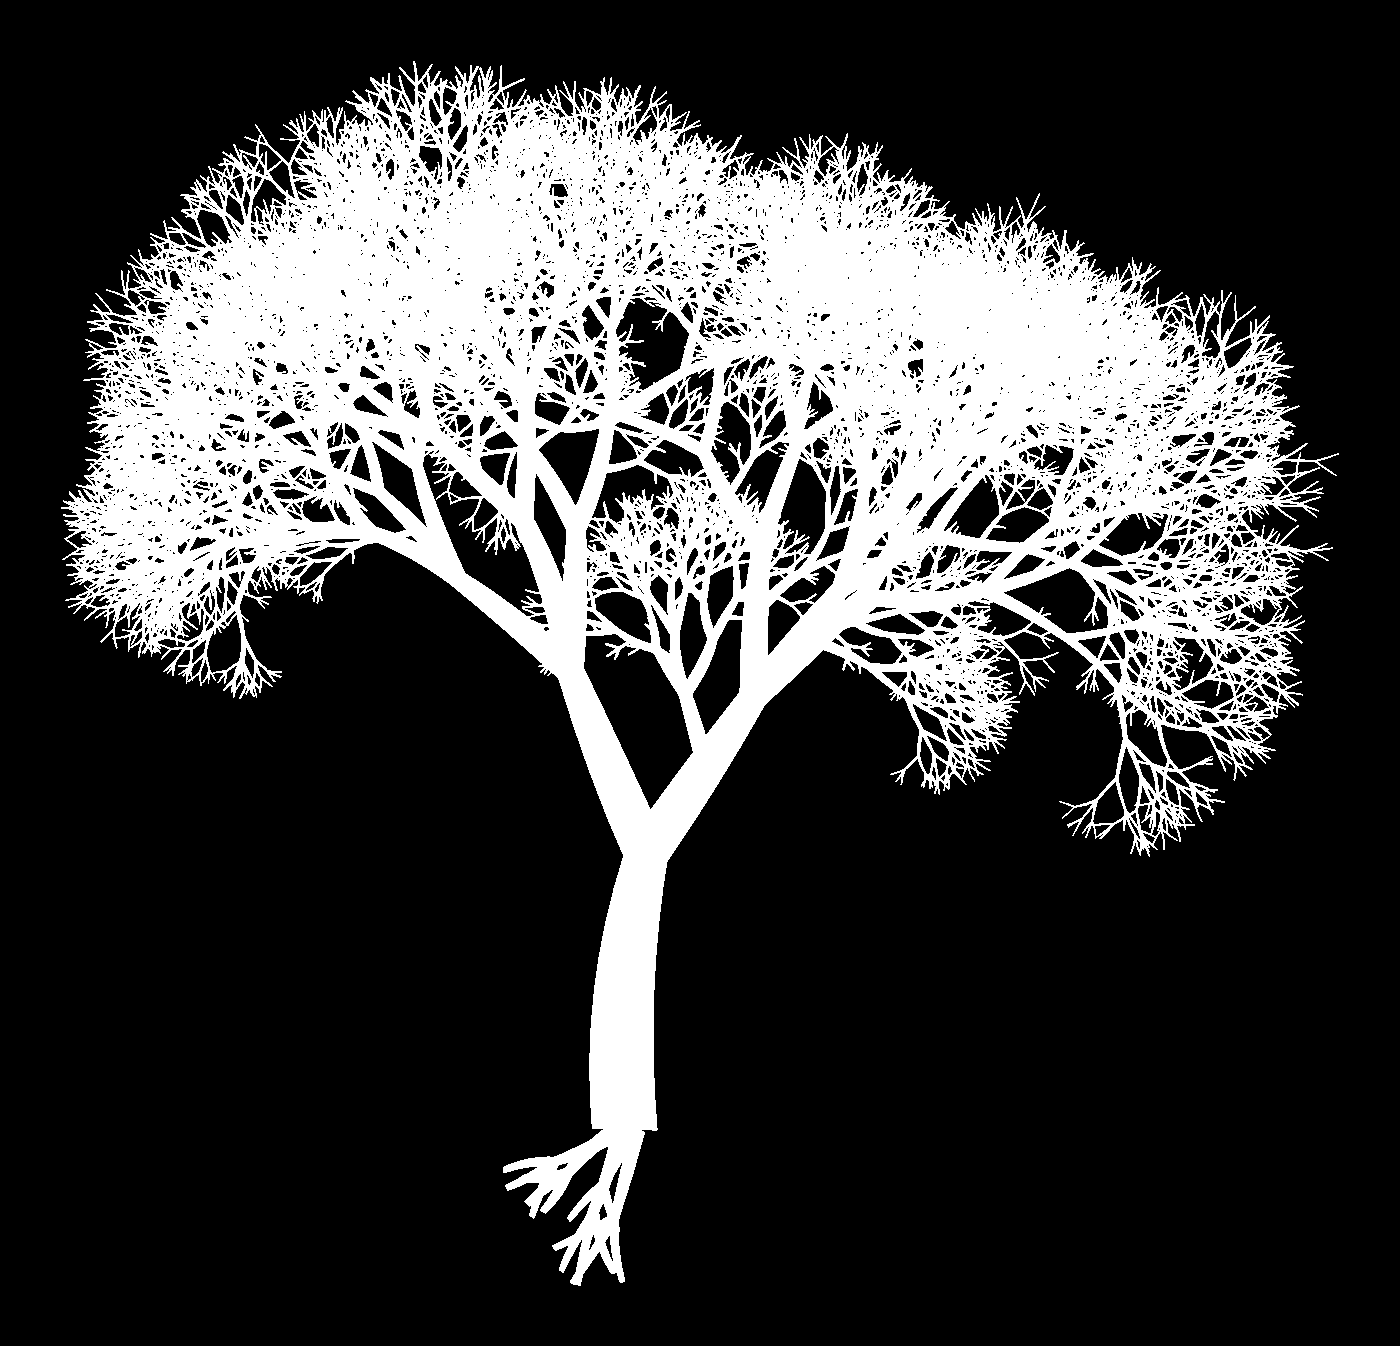
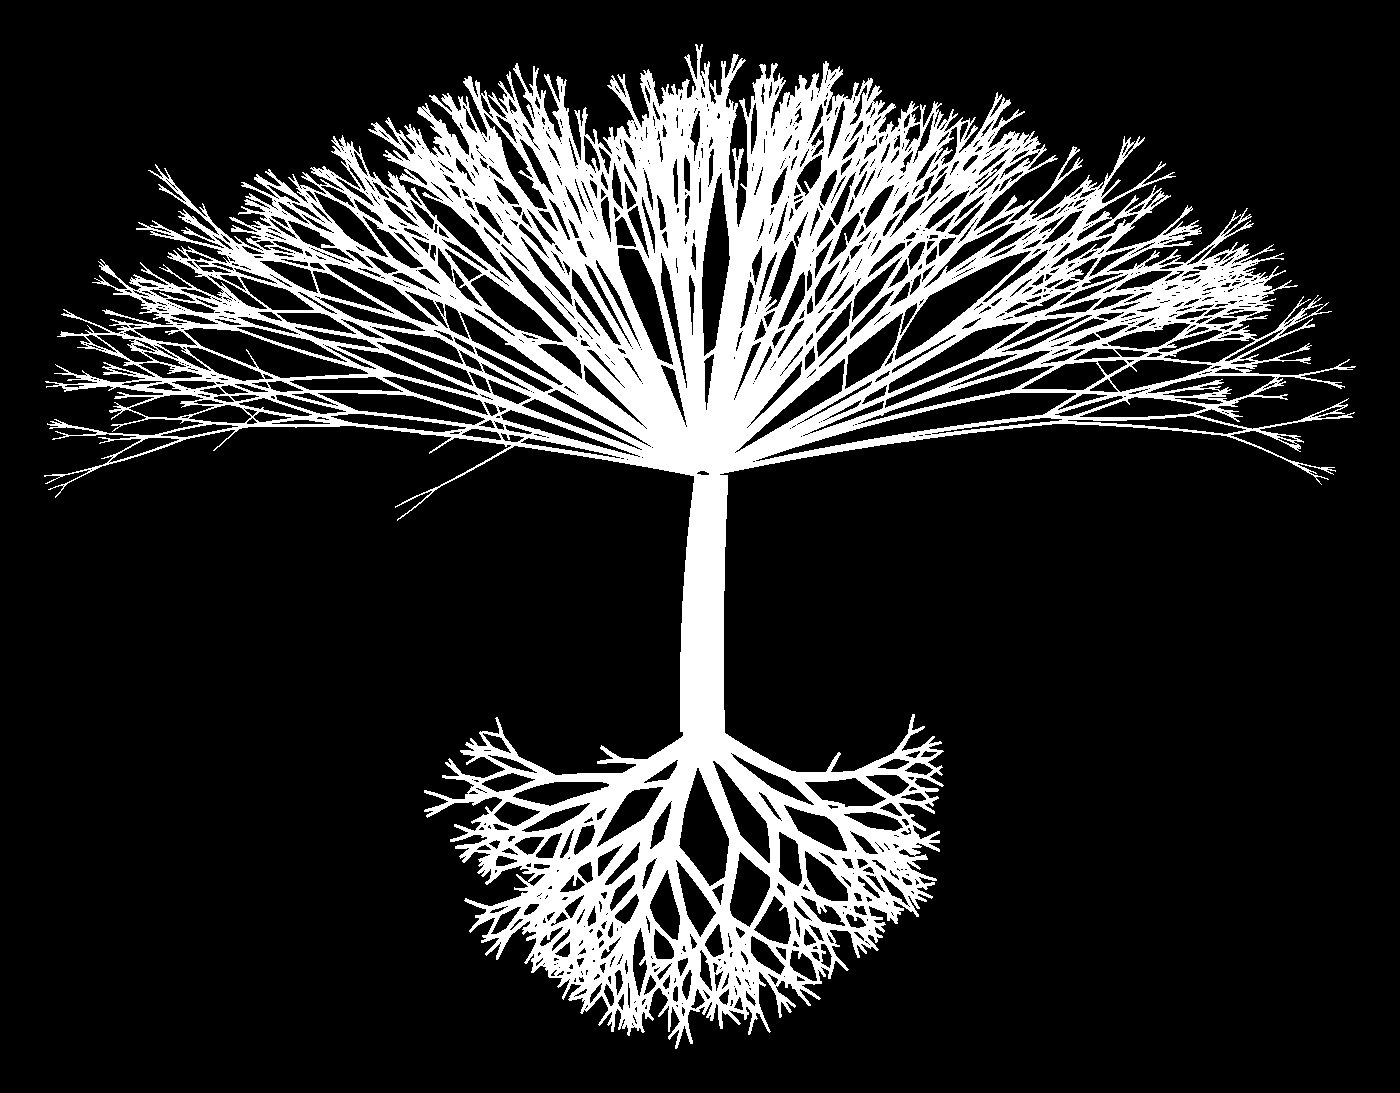
Graph tree: the graph's own shape — an umbrella crown, deep roots
The first tree was a generic one. This one is the graph's: the owners'
wide, shallow fan above the company (Microsoft with no stake filter: 94
on one arc, each on its own line from the hub) becomes an umbrella crown
of 58 long radial branches ending on a flat ellipse, splitting into
twigs near their tips; the subsidiaries' tree below becomes nine deep,
many-branched roots. 35 KB.

Claude-Session: https://claude.ai/code/session_01Jb4dTcij23kH5nQKZ1QnPD

Changed region(s): [[0.0307, 0.0311, 0.9521, 0.9643]]

diff --git a/README.md b/README.md
@@ -88,7 +88,7 @@ src/
 - **Expand into graph** button in the panel loads an entity's full ownership graph
 - **Filters**: one button on the canvas, left of the ⓘ, holds every control over what the graph shows — minimum stake, subsidiaries (Direct | All levels), the year (time travel) and the country the search is scoped to. A badge counts the ones off their default, and the button names the year when the graph shows the past (`Filters · 2019`). Choosing anything closes the panel. On a phone the panel is laid over the page, and **Clear** is its icon alone. Without a graph the button offers the country only; a chosen country also shows as a removable chip in the search box.
 - **Minimum stake filter** (in Filters): `Any · ≥5% · ≥25% · >50% · >75%`. Bands rather than a slider, because ownership is *reported* in bands — Companies House PSC states "more than 25%", never a number — and because those thresholds are the ones the rules name. A link whose percentage is undisclosed is always kept, since most ownership links state none (26 of 115 on Barclays, 1 of 28 on Microsoft) and hiding them would delete most of the graph while presenting the rest as the whole picture; the panel says how many of the links on screen can actually be judged.
-- **An ink tree behind the graph** — a company structure drawn the way nature draws one: a trunk that splits in two or three, level by level. Faint (6–7 % opacity), ink on the light theme and chalk on the dark, whole at every canvas size, outside the PNG export. The picture is `public/graph-tree.png`, a 1-bit mask (42 KB) that the stylesheet paints through `mask-image`; `node scripts/graph-tree.mjs [seed] [size]` redraws it (the same seed gives the same tree; 23 is the one in use).
+- **An ink tree behind the graph** — the graph's own shape drawn as a tree: the owners' wide, shallow fan above the company becomes an umbrella crown of long radial branches ending on a flat arc, the subsidiaries' tree below becomes deep, many-branched roots. Faint (6–7 % opacity), ink on the light theme and chalk on the dark, whole at every canvas size, outside the PNG export. The picture is `public/graph-tree.png`, a 1-bit mask (42 KB) that the stylesheet paints through `mask-image`; `node scripts/graph-tree.mjs [seed] [size]` redraws it (the same seed gives the same tree; 23 is the one in use).
 - **Subsidiaries as a tree**: below the centred company its subsidiaries are drawn as an org chart — under each parent its children are flowed into left-aligned columns (as many as make that branch about the canvas's shape — wide on a desktop, nearly square on a phone — so Tenet's 772 under one parent are a block, not a 55,000 px row, and Chubb's ten levels are not a 27,000 px strip), and the lines run at right angles: down to a bar under the parent, along it, then down onto the first company of a column or down the gutter beside the column and in from the left. Owners keep their arc above. The graph is fitted to the whole canvas; on a phone, where the canvas is a third of the screen, it starts just below the buttons over the canvas's top and keeps only a narrow margin, instead of the desktop's 80 px. **Subsidiaries: Direct | All levels** in the Filters panel chooses how much of the tree is loaded: **Direct** the one level the profile lists, **All levels** (experimental) the **whole tree** below the company, each company under its actual holder; the panel's subsidiary list then becomes that tree, **indented by level**, with the tree's own count. Both are drawn the same way, so switching only adds or removes the levels below. The switch stays on while you navigate and is in the URL (`#graph/e/<id>/all`); the tree is capped at 2,000 companies and says so when it is larger. **The tree's lines do not cross**: a company sits under its largest holder and, where no stake is stated, its deepest one (Microsoft's flat list names Activision's subsidiaries too — they hang under Activision); a line from further up the same branch that states no stake of its own only repeats the path above it and is not drawn. Only a genuine co-holder from another branch can still cross; its line is drawn faintly. **A centred person** gets the same tree: the companies they own first, then those they only hold a role in. Where they **own and run** a company (Elon Musk and Tesla) the role's dashed line runs on top of the holding's solid one — one two-tone line — and one label names both (`Board Member · CEO · 18.4%`). Every line's label sits in room kept above its company, beside the line rather than on it. A role never continues the tree: only ownership is followed further down.
 - **Time travel**: in the panel's **Timeline** tab, click a year to see the graph and the panel as they stood at the **end of that year**; or pick one in the Filters panel's **Year** list (every year back to the earliest the company's history mentions; "Present" takes you back). The Filters button then reads "Filters · 2019", and the Year row explains the dimmed lines. The chosen year stays while you navigate and expand, and lives in the URL (`#graph/e/<id>/asof/2019-12-31`), so Back walks between past and present and the link can be shared. A relationship whose stated start is later, or that had ended by then, is not shown; one the sources only confirm later (a subsidiary first listed in 2023, a 13F holding) is shown **dashed and faded** rather than hidden — "not documented for that year", never "did not exist". A company founded after that year is not shown at all.
 
